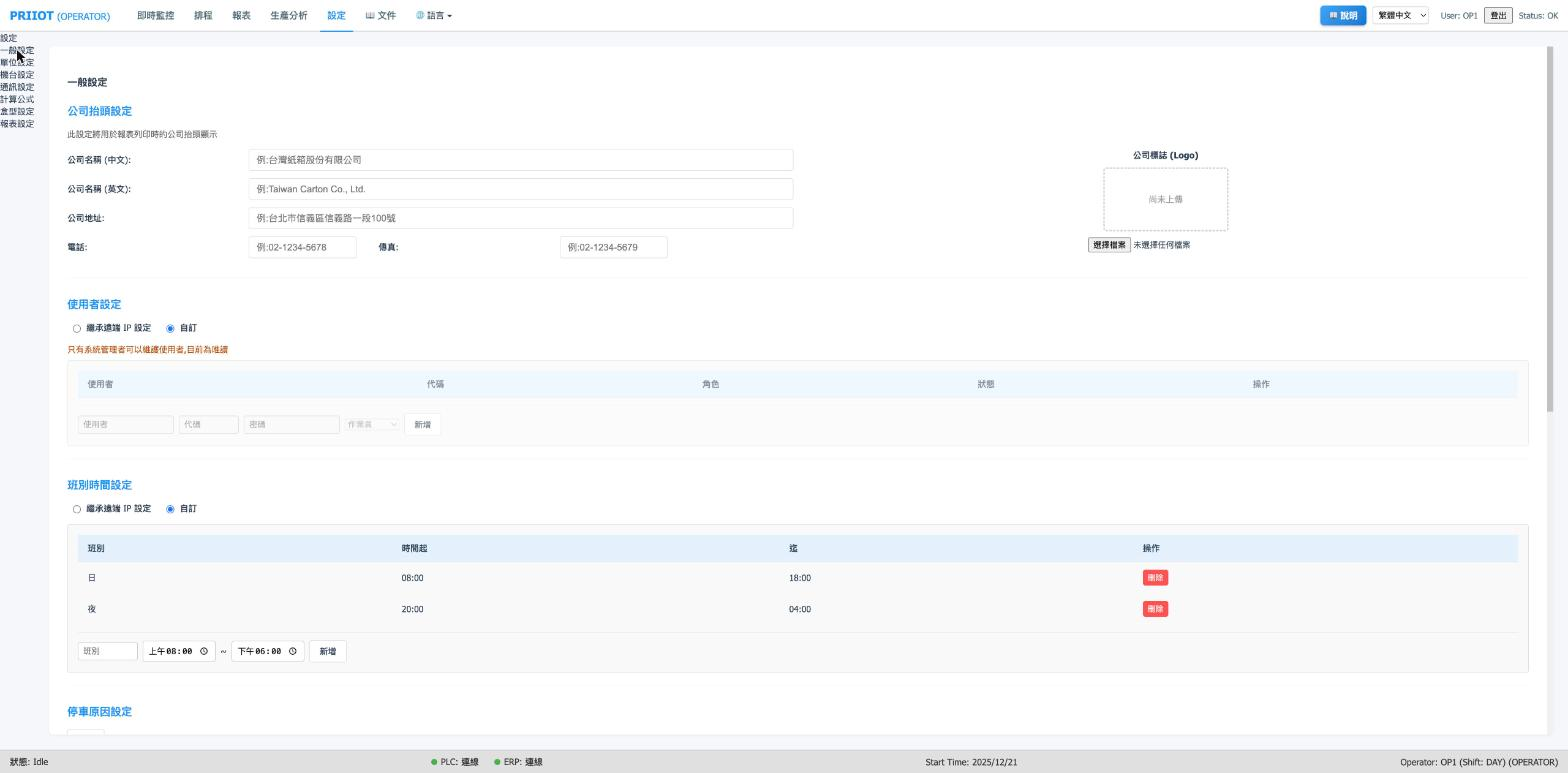
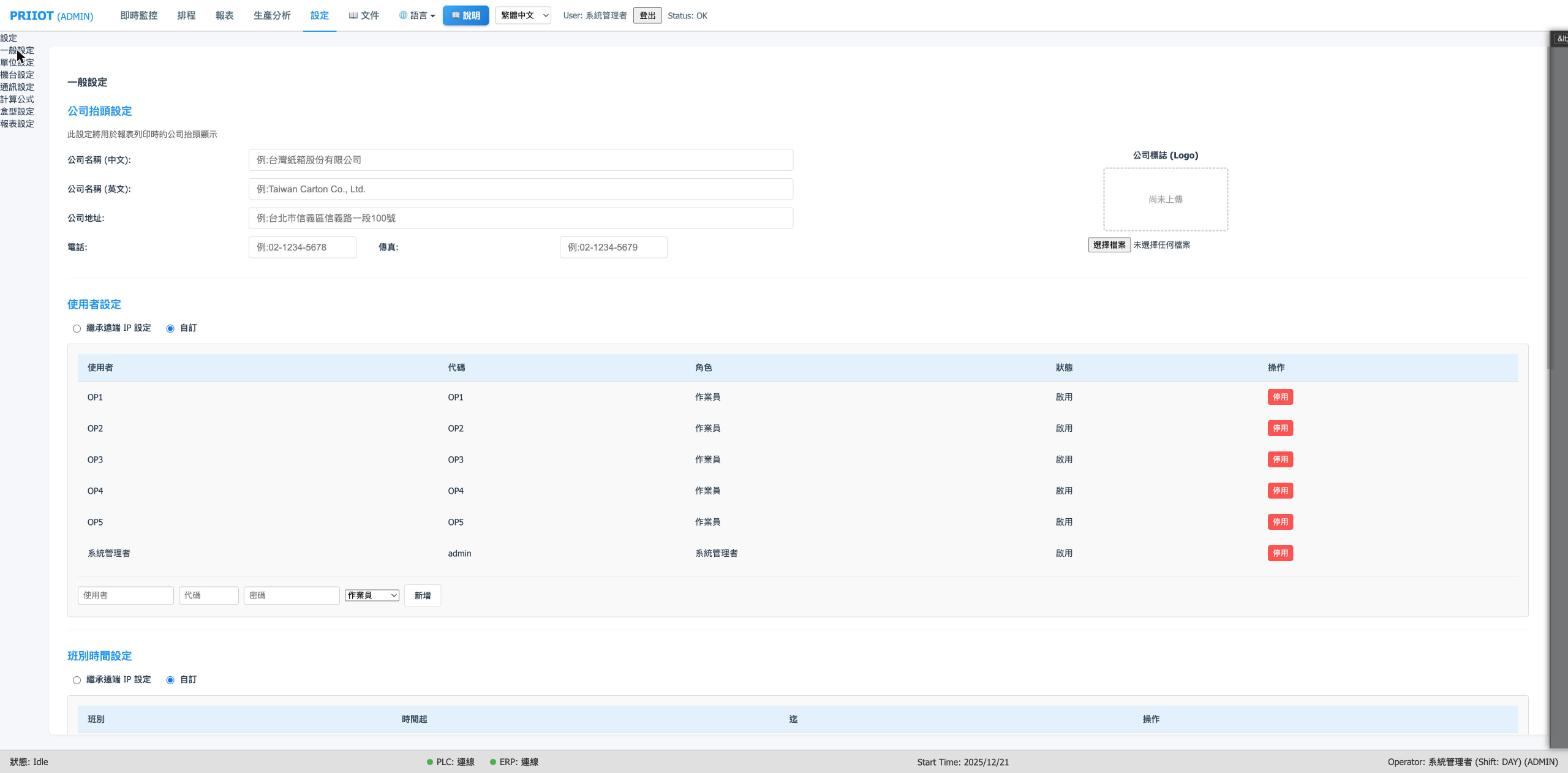
docs: 設定頁截圖改為管理者視角(一般設定使用者表、通訊設定),補 Debug 浮層說明
Claude-Session: https://claude.ai/code/session_0126azauofKPPhtQdi4zQ4Ea

diff --git a/doc/操作說明文件.html b/doc/操作說明文件.html
@@ -909,13 +909,13 @@
     <p class="sec-sub">系統參數與進階設定,通常由管理者操作</p>
 
     <h3 id="s-settings">7.1 主畫面配置(S12)</h3>
-    <figure class="shot"><a href="pic/ui/ui-11-settings-general.jpg" target="_blank" rel="noopener"><img src="pic/ui/ui-11-settings-general.jpg" alt="實機畫面 · 一般設定(作業員身分唯讀檢視;左上角分類選單目前沒有樣式,但可點選)" loading="lazy"></a><figcaption>實機畫面 · 一般設定(作業員身分唯讀檢視;左上角分類選單目前沒有樣式,但可點選)</figcaption></figure>
+    <figure class="shot"><a href="pic/ui/ui-11-settings-general.jpg" target="_blank" rel="noopener"><img src="pic/ui/ui-11-settings-general.jpg" alt="實機畫面 · 一般設定(管理者身分:使用者表可編輯、可停用/新增帳號;左上角分類選單目前沒有樣式,但可點選)" loading="lazy"></a><figcaption>實機畫面 · 一般設定(作業員身分唯讀檢視;左上角分類選單目前沒有樣式,但可點選)</figcaption></figure>
 
     <figure class="shot"><a href="pic/ui/ui-12-settings-machine.jpg" target="_blank" rel="noopener"><img src="pic/ui/ui-12-settings-machine.jpg" alt="實機畫面 · 機台設定(機台極速、部位設定)" loading="lazy"></a><figcaption>實機畫面 · 機台設定(機台極速、部位設定)</figcaption></figure>
 
     <figure class="shot"><a href="pic/ui/ui-14-settings-formula.jpg" target="_blank" rel="noopener"><img src="pic/ui/ui-14-settings-formula.jpg" alt="實機畫面 · 計算公式參數設定" loading="lazy"></a><figcaption>實機畫面 · 計算公式參數設定</figcaption></figure>
 
-    <figure class="shot"><a href="pic/ui/ui-13-settings-communication.jpg" target="_blank" rel="noopener"><img src="pic/ui/ui-13-settings-communication.jpg" alt="實機畫面 · 通訊設定:PLC 控制設定、ERP 整合設定(皆有啟用開關,目前只記錄設定值)、數據記錄設定" loading="lazy"></a><figcaption>實機畫面 · 通訊設定:PLC 控制設定、ERP 整合設定(皆有啟用開關,目前只記錄設定值)、數據記錄設定</figcaption></figure>
+    <figure class="shot"><a href="pic/ui/ui-13-settings-communication.jpg" target="_blank" rel="noopener"><img src="pic/ui/ui-13-settings-communication.jpg" alt="實機畫面 · 通訊設定(管理者身分):PLC 控制設定、ERP 整合設定(皆有啟用開關,目前只記錄設定值)、數據記錄設定" loading="lazy"></a><figcaption>實機畫面 · 通訊設定:PLC 控制設定、ERP 整合設定(皆有啟用開關,目前只記錄設定值)、數據記錄設定</figcaption></figure>
 
     <div class="wire full">
       <p class="wire-cap">S12 · 系統設定(左:分類側欄 / 右:設定內容,以通訊設定為例)<span class="chip cur">現況</span></p>

diff --git a/doc/Operator Manual.md b/doc/Operator Manual.md
@@ -267,13 +267,13 @@ If results stayed local (`pending`), the Reports page shows a **backfill panel**
 
 The left menu has **7 categories**: **General** (company header, user accounts, shifts, stop and defect reasons), **Unit**, **Machine**, **Formula**, **Communication**, **Box type**, **Report**. Categories you may not use show *Access Denied*.
 
-> **ℹ** The category menu at the top left ("Settings / General / Unit…") currently has **no styling** and appears as small text, but **clicking works**. Operators can **open** most tabs, but **saving needs the matching permission**; blocks such as user maintenance show a read-only notice.
+> **ℹ** The category menu at the top left ("Settings / General / Unit…") currently has **no styling** and appears as small text, but **clicking works**. When logged in as an administrator, a **"Debug Log (Admin)"** overlay also appears on the right; its top-right button minimizes it. Operators can **open** most tabs (the Communication page looks the same as the administrator's), but **saving needs the matching permission**; the user maintenance block shows a read-only notice.
 
 ### 7.1 General
 
-![Figure 7-1 General settings](pic/ui/ui-11-settings-general.jpg "Figure 7-1 General settings (operator view, read-only)")
+![Figure 7-1 General settings](pic/ui/ui-11-settings-general.jpg "Figure 7-1 General settings (administrator view: the user table is editable)")
 
-**Company header** (names, address, phone, fax, logo — printed on reports); **User settings** (accounts; **only a system administrator can edit**, others see a read-only notice); **Shift times** (e.g. Day 08:00~18:00, Night 20:00~04:00); **Stop reasons** and **Defect reasons** further down — shop-floor dialogs and reports share this list.
+**Company header** (names, address, phone, fax, logo — printed on reports); **User settings** (the table lists user, code, role and status, with a red **Disable** button per row — a disabled account cannot log in — and an input row at the bottom to **add** an account; **only a system administrator can edit**, others see a read-only notice and an empty table); **Shift times** (e.g. Day 08:00~18:00, Night 20:00~04:00); **Stop reasons** and **Defect reasons** further down — shop-floor dialogs and reports share this list.
 
 ### 7.2 Machine
 
@@ -293,7 +293,7 @@ The left menu has **7 categories**: **General** (company header, user accounts, 
 
 ### 7.5 Communication settings
 
-![Figure 7-4 Communication settings](pic/ui/ui-13-settings-communication.jpg "Figure 7-4 Communication settings (PLC at the top, ERP below, data logging at the bottom)")
+![Figure 7-4 Communication settings](pic/ui/ui-13-settings-communication.jpg "Figure 7-4 Communication settings (administrator view; PLC at the top, ERP below, data logging at the bottom)")
 
 From top to bottom: **PLC control** (green "Connected (Motor On)" tag = device signals arriving; **enable switch**, "Simulate signal", device type, protocol, MQTT broker/topic, monitoring interval, **Test Connection**, **Monitor messages**); **ERP integration** (switch, protocol, connection and paths); **Data logging** (write interval in seconds).
 

diff --git a/doc/操作說明書.md b/doc/操作說明書.md
@@ -349,16 +349,16 @@
 
 > 沒有權限的分類會顯示「Access Denied」。
 
-> **ℹ 畫面說明**:設定頁左上角的分類選單(「設定 / 一般設定 / 單位設定…」)目前**沒有套用樣式**,顯示為小字清單,但**點選功能正常**。作業員可以**開啟**多數分頁檢視,但**儲存需要對應權限**;沒有權限時,使用者維護等區塊會顯示唯讀提示。
+> **ℹ 畫面說明**:設定頁左上角的分類選單(「設定 / 一般設定 / 單位設定…」)目前**沒有套用樣式**,顯示為小字清單,但**點選功能正常**。管理者登入時,畫面右側還會出現一個「**Debug Log (Admin)**」除錯浮層,可按右上角的按鈕最小化。作業員可以**開啟**多數分頁檢視(通訊設定畫面與管理者看到的相同),但**儲存需要對應權限**;沒有權限時,使用者維護區塊會顯示唯讀提示。
 
 ### 7.1 一般設定
 
-![圖 7-1 一般設定](pic/ui/ui-11-settings-general.jpg "圖 7-1 一般設定(作業員身分,唯讀檢視)")
+![圖 7-1 一般設定](pic/ui/ui-11-settings-general.jpg "圖 7-1 一般設定(管理者身分:使用者表可編輯)")
 
 | 區塊 | 說明 |
 |---|---|
 | **公司抬頭設定** | 公司名稱(中、英)、地址、電話、傳真與公司標誌;用於**報表列印**時的抬頭 |
-| **使用者設定** | 使用者帳號維護(使用者、代碼、角色、狀態、操作)。**只有系統管理者可以維護**,其他角色看到橘字提示「目前為唯讀」 |
+| **使用者設定** | 使用者帳號維護。表格列出**使用者、代碼、角色、狀態**,每列有紅色「**停用**」鈕(停用後該帳號無法登入);表格最下方的輸入列可**新增**帳號(使用者、代碼、密碼、角色,再按「新增」)。**只有系統管理者可以維護**,其他角色看到的是橘字提示「目前為唯讀」且表格為空 |
 | **班別時間設定** | 班別名稱與起訖時間(例:日 08:00~18:00、夜 20:00~04:00),可新增、刪除 |
 | 停車原因設定、不良原因設定 | 往下捲動可見;維護停機與不良原因主檔,**現場彈窗與報表共用這份清單** |
 
@@ -389,7 +389,7 @@
 
 ### 7.5 通訊設定
 
-![圖 7-4 通訊設定畫面](pic/ui/ui-13-settings-communication.jpg "圖 7-4 通訊設定(PLC 控制設定在上,ERP 整合設定在下,最下方是數據記錄設定)")
+![圖 7-4 通訊設定畫面](pic/ui/ui-13-settings-communication.jpg "圖 7-4 通訊設定(管理者身分;PLC 控制設定在上,ERP 整合設定在下,最下方是數據記錄設定)")
 
 畫面由上而下:
 
